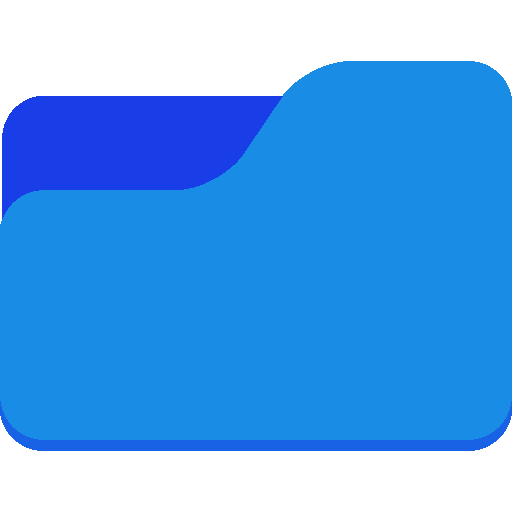
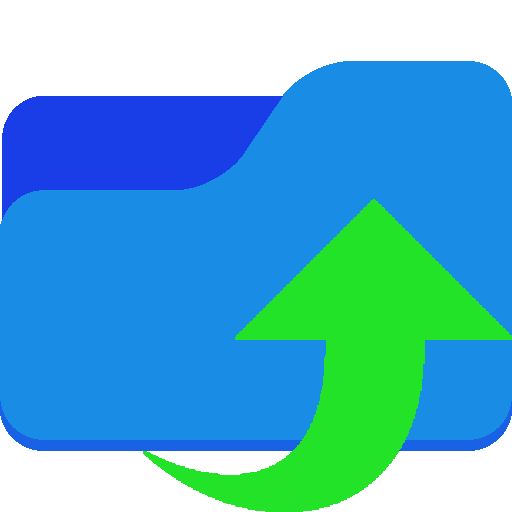
ultimata icona cartella superiore

Changed region(s): [[0.2812, 0.375, 1.0, 1.0]]

diff --git a/Dicembre/Burla_diarioDiBordo.md b/Dicembre/Burla_diarioDiBordo.md
@@ -49,6 +49,9 @@
 ## 6. **29 Dicembre 2024**
    - **Ordine del giorno**: implemetare la possibilità di visualizzare un file o il contenuto di una directory premendo il tasto _INVIO_ della tastiera anzichè cliccare necessariamente il bottone che sta in basso nella GUI quando il campo di testo è selezionato. Per fare ciò, utilizzo la classe KeyAdapter di Java che mi consente di scrivere solo i metodi necessari anziché tutti i metodi di KeyListener.
    Sempre con l'ausilio dell'interfaccia KeyAdapter, aggiungo la possibilità di aprire un file o una directory premendo il tasto _INVIO_ dopo aver selezionato il file o la directory in questione dalla GUI. A tal proposito, quando un elemento sarà cliccato due volte di fila verrà aperto (come implementato in precedenza), mentre quando sarà cliccato solo una volta verrà passato il focus della tastiera alla JList dei files. A tal proposito, le interfacce MouseAdapter e KeyAdapter associate a JList condividono un oggeto di classe _Point_, cosicché l'ascoltatore del mouse possa comunicare all'ascoltatore della tastiera il punto in cui è avvenuto il singolo click e quest'ultimo possa così ottenere l'indice dell'elemento selezionato.
-   Inizio a implemetare il tasto _indietro_ che consente di andare alla directory superiore: utilizzo la classe Jlabel per l'icona e, per posizionare l'immagine, creo un pannello con BorderLayout che conterrà la JLabel dell'icona e il JTextField del path e che sarà contenuto nel pannello principale in alto.
+   Inizio a implemetare il tasto _indietro_ che consente di andare alla directory superiore: utilizzo la classe JButton che conterrà l'icona e, per posizionare l'immagine, creo un pannello con BorderLayout che conterrà il JButton dell'icona e il JTextField del path e che sarà contenuto nel pannello principale in alto.
    Si presenta anche la necessità di scalare l'icona orginiale per inserirla nel sottopannello.
-   - **Sitografia**: [KeyAdapter Java API](https://docs.oracle.com/javase/8/docs/api/java/awt/event/KeyAdapter.html), [JLabel Java API]()
+   - **Sitografia**: [KeyAdapter Java API](https://docs.oracle.com/javase/8/docs/api/java/awt/event/KeyAdapter.html)
+
+## 7. **20 Gennaio 2025**
+   - **Ordine del giorno**: preparo l'icona personalizzata per il tasto directory superiore mediante il software di fotoritocco GIMP.
